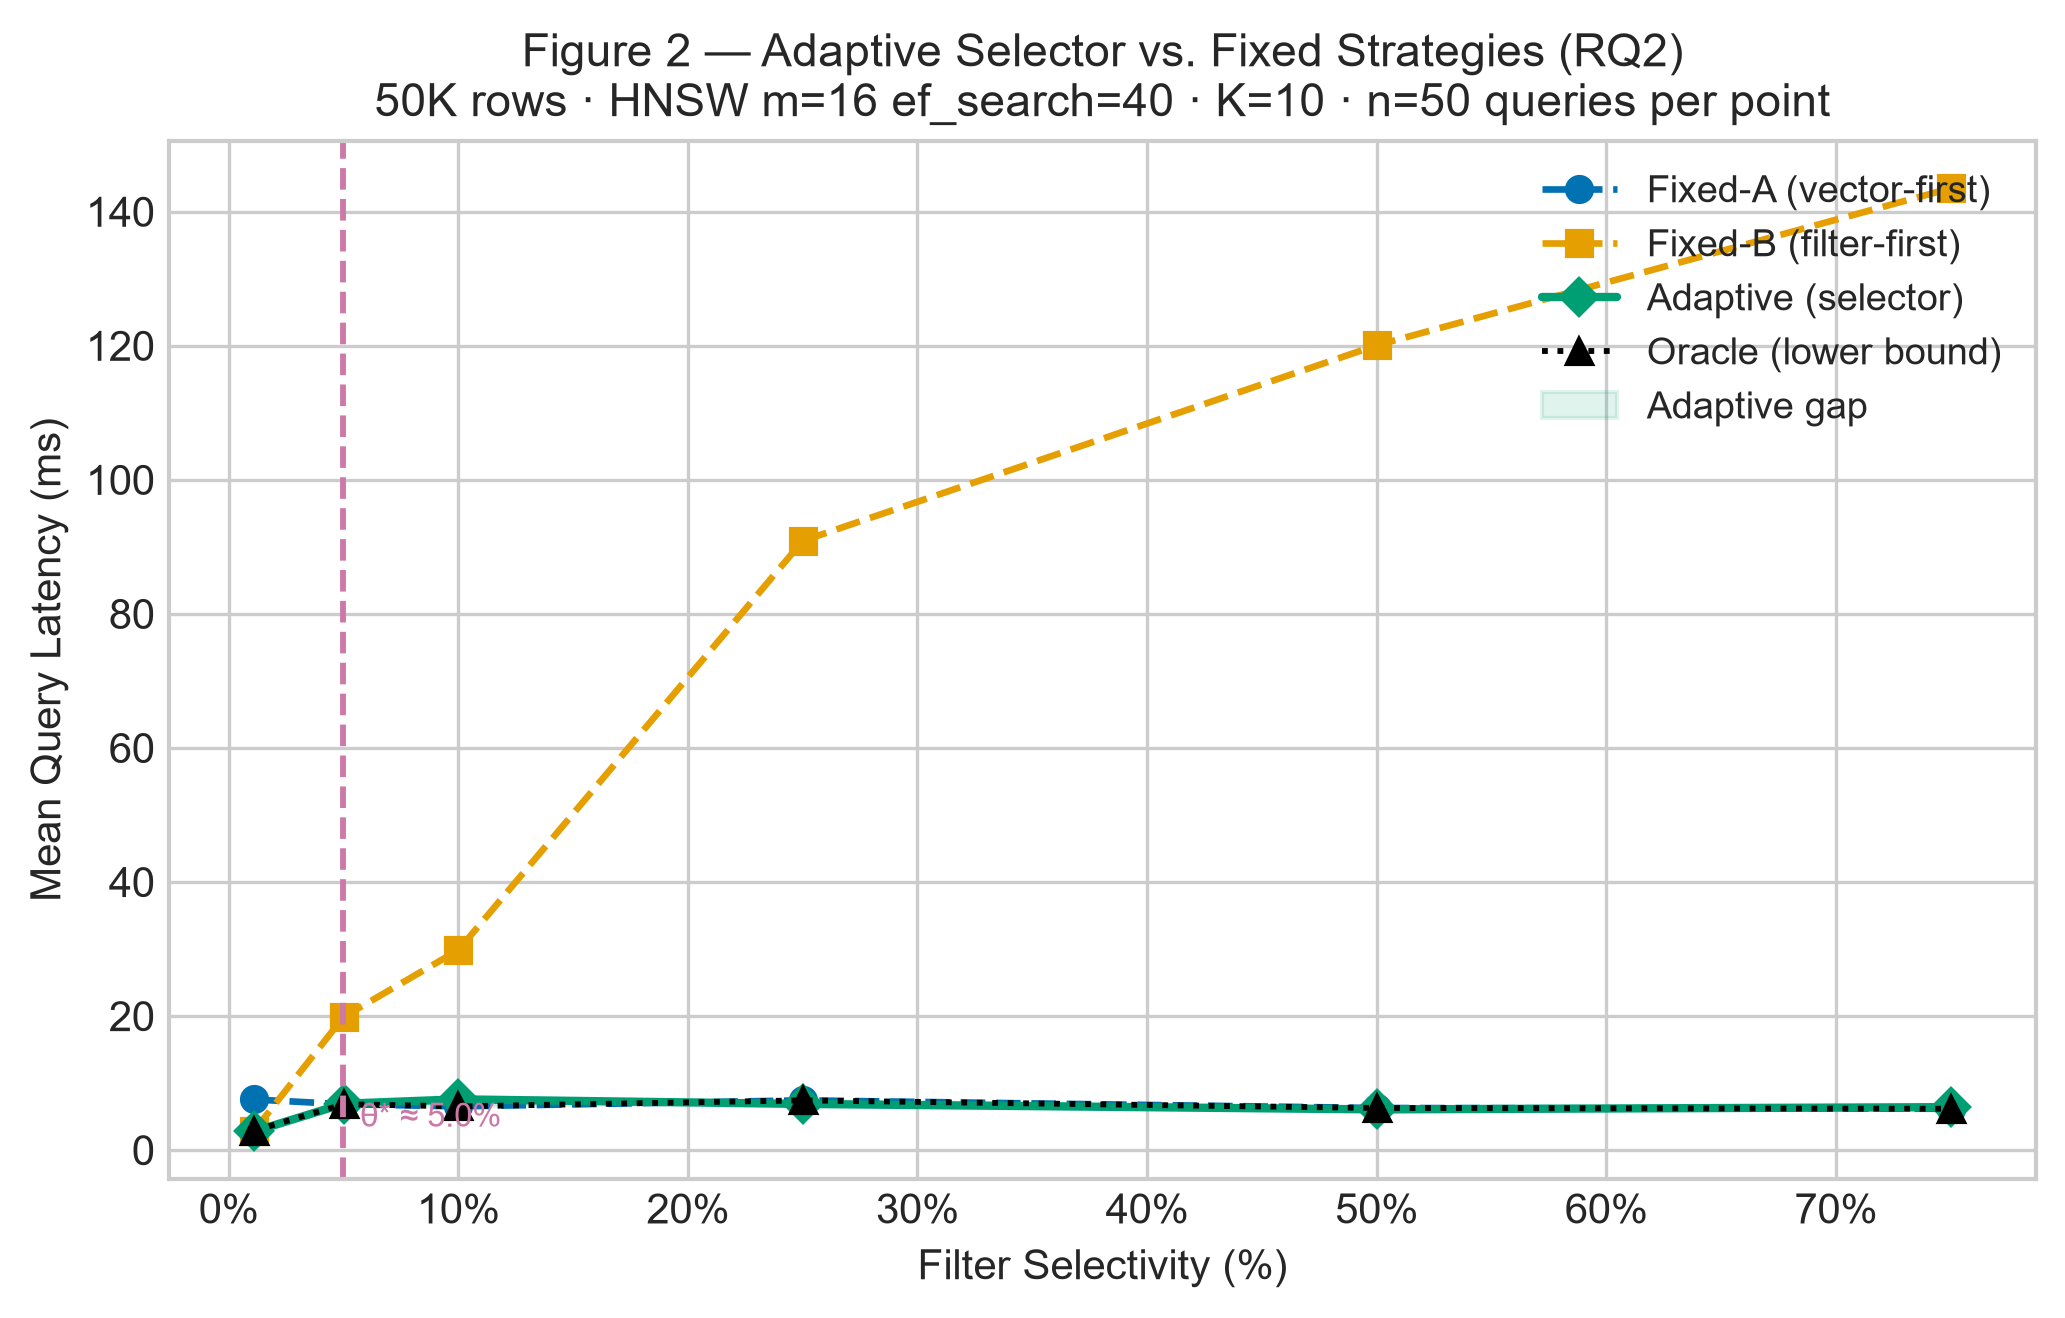
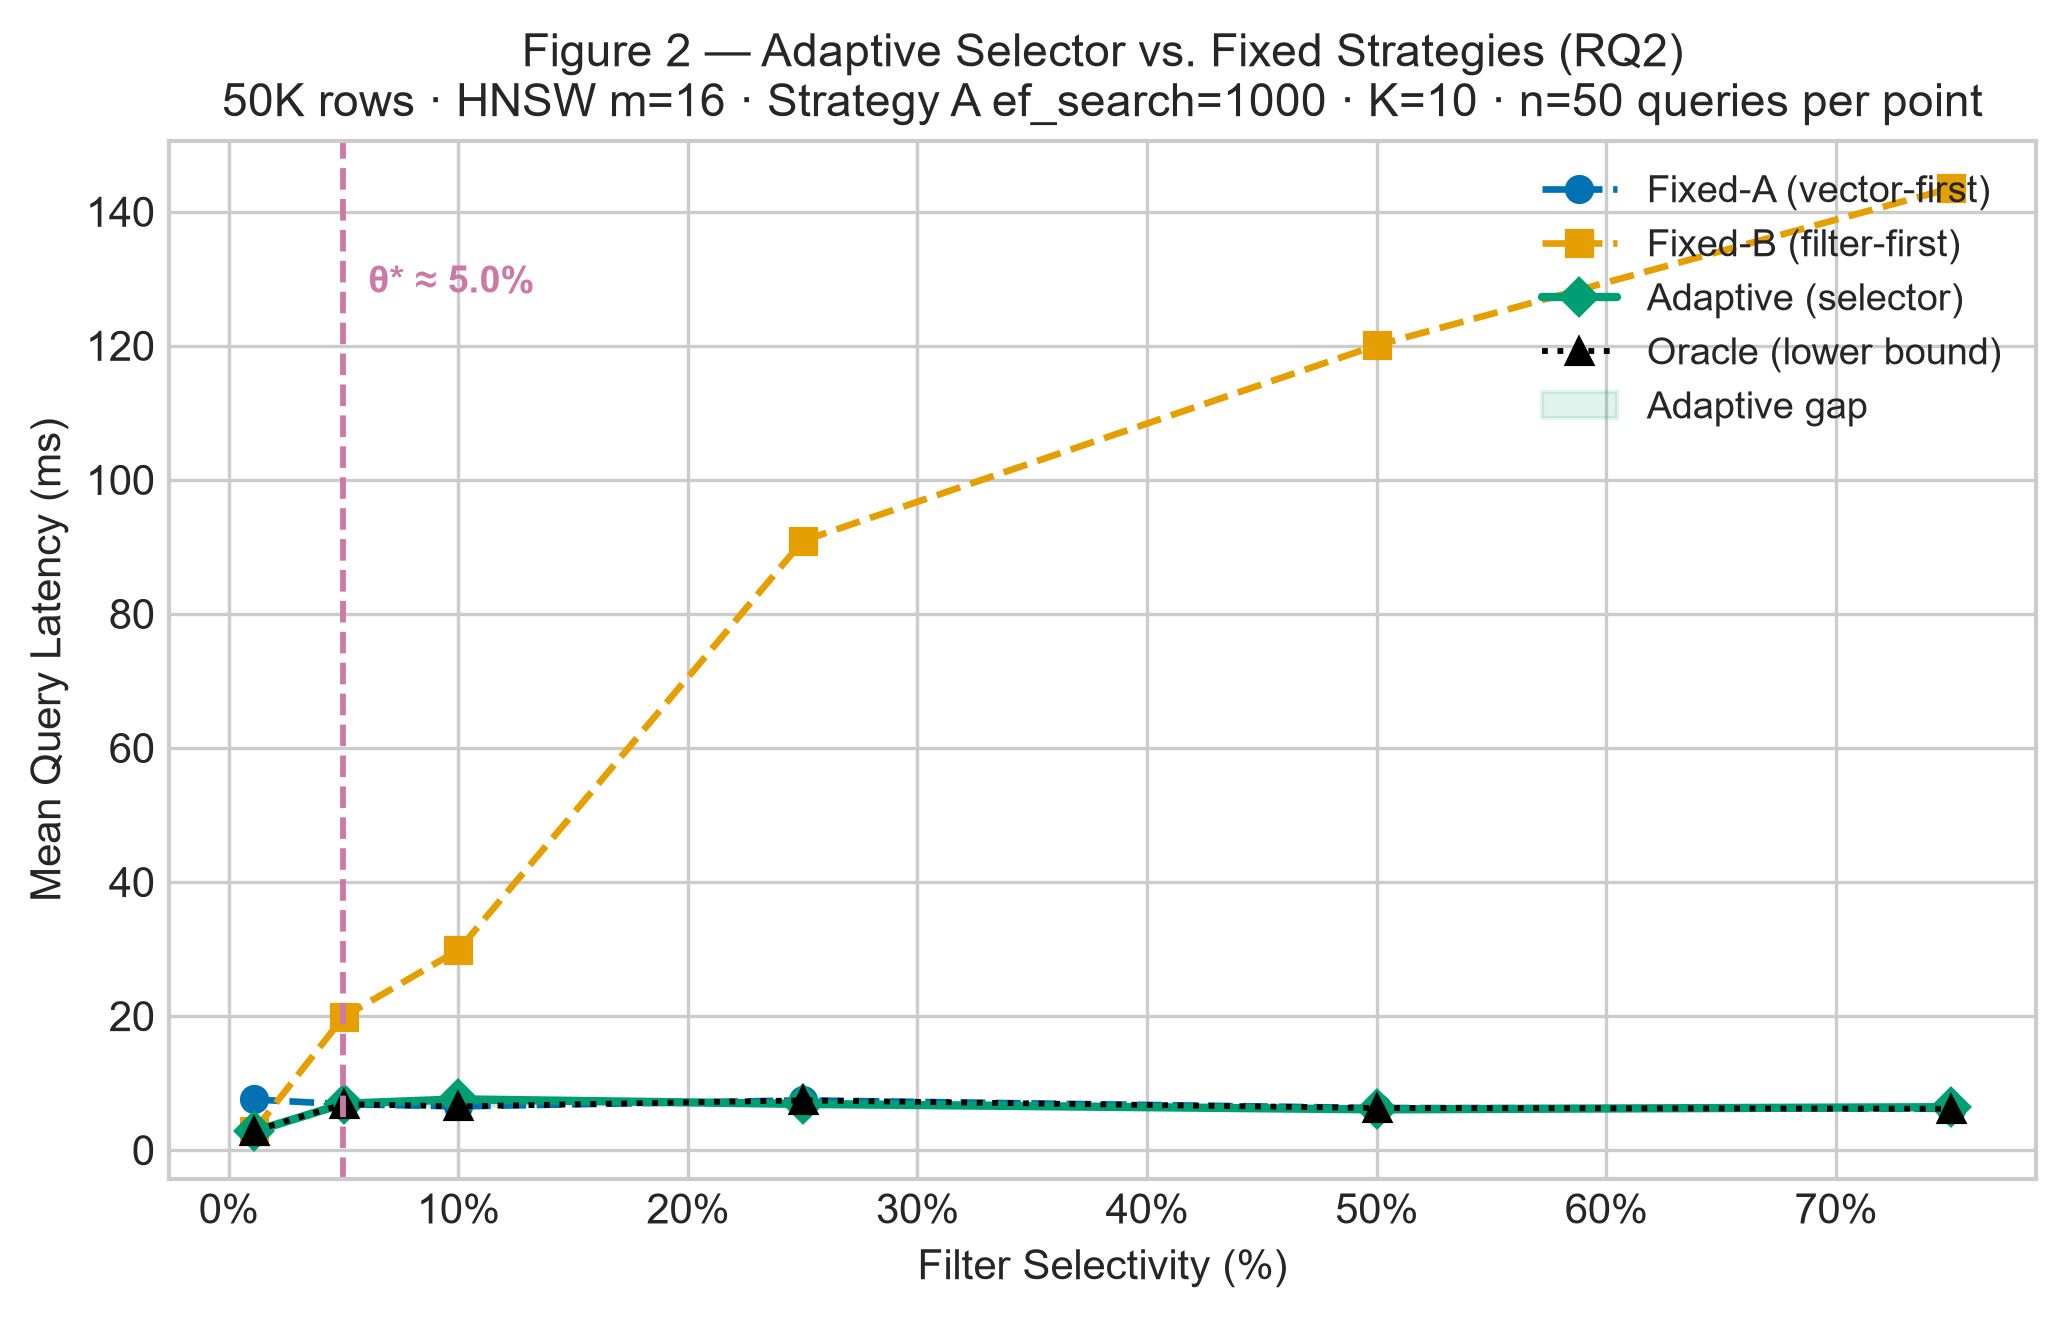
docs: align reported benchmark parameters with actual behavior
- Report Strategy A effective ef_search=1000 (max(40, n_candidates));
  the previous "ef_search=40" claim in README, figure titles, and the
  exp_01 docstring described the config floor, not the operating point
- Fix README manual setup: pgvector 0.8.4 is not a trusted extension,
  so CREATE EXTENSION requires superuser; make hybench the DB owner
  (required on PG15+ where public schema is not world-writable)
- Add Docker as the recommended, documented setup path (digest-pinned)
- Correct project structure: create_tables.sql builds B-tree only,
  HNSW lives in sql/indexes.sql; add tests/ and compose file entries
- Remove nonexistent BenchmarkConfig.n_candidates from config reference
- Fix stale 0.75-selectivity calibration comment in config.py
- Regenerate reference figures with corrected titles (same data)

Changed region(s): [[0.093, 0.0622, 0.9608, 0.0933], [0.186, 0.8399, 0.2479, 0.871], [0.186, 0.1866, 0.2479, 0.2178]]

diff --git a/analysis/plot_results.py b/analysis/plot_results.py
@@ -107,7 +107,7 @@ def fig_01_latency_vs_selectivity(theta_star: float = None):
         ax1.set_ylabel("Mean Query Latency (ms)\n(error bars: ±1 SD, n=50 queries)")
         ax1.set_title(
             "Figure 1 — Filter Selectivity vs. Query Latency (RQ1)\n"
-            "50K rows · HNSW m=16 ef_search=40 · K=10 · "
+            "50K rows · HNSW m=16 · Strategy A ef_search=1000 · K=10 · "
             "Recall@K relative to filtered set"
         )
         ax1.xaxis.set_major_formatter(mticker.FuncFormatter(lambda x, _: f"{x:.0f}%"))
@@ -195,7 +195,7 @@ def fig_02_adaptive_vs_fixed():
         ax.set_ylabel("Mean Query Latency (ms)")
         ax.set_title(
             "Figure 2 — Adaptive Selector vs. Fixed Strategies (RQ2)\n"
-            "50K rows · HNSW m=16 ef_search=40 · K=10 · n=50 queries per point"
+            "50K rows · HNSW m=16 · Strategy A ef_search=1000 · K=10 · n=50 queries per point"
         )
         ax.xaxis.set_major_formatter(mticker.FuncFormatter(lambda x, _: f"{x:.0f}%"))
         ax.legend(loc="upper right")

diff --git a/benchmark/config.py b/benchmark/config.py
@@ -81,7 +81,7 @@ ADAPTIVE_THRESHOLD: float = 0.05   # derived from exp_01 crossover: B wins below
 # ---------------------------------------------------------------------------
 
 # Six selectivity targets covering the full range.
-# 0.75 replaces 0.90: easier to hit cleanly with the Mouse profile.
+# 0.75 replaces 0.90: hit cleanly with a cross-category price-cap query (no category filter).
 SELECTIVITY_LEVELS: List[float] = [0.01, 0.05, 0.10, 0.25, 0.50, 0.75]
 
 # (category_or_None, max_price, min_rating) calibrated against the 50K synthetic dataset (seed=42).

diff --git a/experiments/exp_01_selectivity.py b/experiments/exp_01_selectivity.py
@@ -1,7 +1,7 @@
 """
 Experiment 1 — Filter Selectivity vs. Latency  (RQ1)
 
-Fixed variables : dataset = 50K, index = HNSW (ef_search=40), top_k = 10
+Fixed variables : dataset = 50K, index = HNSW (Strategy A effective ef_search=1000), top_k = 10
 Varied variable : filter selectivity in {1%, 5%, 10%, 25%, 50%, 75%}
 
 Protocol

diff --git a/README.md b/README.md
@@ -94,7 +94,7 @@ Properties:
 
 ### Experiment 1 — Selectivity vs. Latency (RQ1)
 
-Dataset: 50K rows · HNSW m=16 ef_search=40 · K=10 · n=50 queries per level · warm cache
+Dataset: 50K rows · HNSW m=16 · K=10 · Strategy A: n_candidates=1000 (effective ef_search=1000) · n=50 queries per level · warm cache
 
 | Selectivity | Actual σ | Strategy A | Strategy B | Winner | Speedup |
 |-------------|----------|-----------|-----------|--------|---------|
@@ -128,7 +128,7 @@ Adaptive made the correct strategy decision at all 6 selectivity levels. Oracle 
 
 ### Prerequisites
 
-- PostgreSQL 16 with pgvector 0.7+
+- Docker (recommended — the compose file pins PostgreSQL 16 + pgvector 0.8.4 by immutable digest), or an existing PostgreSQL 16 install with pgvector ≥ 0.7
 - Python 3.10+
 - `all-MiniLM-L6-v2` model (downloaded automatically on first run by `sentence-transformers`)
 
@@ -147,11 +147,28 @@ pip install -r requirements.txt
 
 ### 2. Create the database
 
+**Option A — Docker (recommended, reproducible):**
+
 ```bash
-createdb hybench
-psql -d hybench -c "CREATE USER hybench WITH PASSWORD 'hybench'; GRANT ALL ON DATABASE hybench TO hybench;"
+docker compose up -d
+```
+
+Starts PostgreSQL 16 + pgvector 0.8.4 from a digest-pinned image and runs
+`sql/create_tables.sql` automatically on first start (schema + B-tree indexes).
+
+**Option B — existing PostgreSQL 16 install:**
+
+```bash
+psql -c "CREATE USER hybench WITH PASSWORD 'hybench';"
+createdb -O hybench hybench
+psql -d hybench -c "CREATE EXTENSION IF NOT EXISTS vector;"
 psql -d hybench -U hybench -f sql/create_tables.sql
 ```
+
+> **Note:** pgvector is not a *trusted* extension, so `CREATE EXTENSION` (third
+> line) must run as a superuser. Making `hybench` the database owner
+> (`createdb -O hybench`) is required on PostgreSQL 15+, where the `public`
+> schema is no longer writable by ordinary roles.
 
 ### 3. Generate the dataset and build the HNSW index
 
@@ -230,7 +247,8 @@ HyBench/
 │   └── generator.py            50K synthetic row generation (seed=42)
 │
 ├── sql/
-│   └── create_tables.sql       Schema, pgvector extension, B-tree and HNSW indexes
+│   ├── create_tables.sql       Schema, pgvector extension, B-tree indexes
+│   └── indexes.sql             HNSW index (built by generator.py after data load)
 │
 ├── experiments/
 │   ├── exp_01_selectivity.py   RQ1: latency across 6 selectivity levels
@@ -239,14 +257,14 @@ HyBench/
 ├── analysis/
 │   └── plot_results.py         Two 300 DPI publication-quality figures
 │
-├── data/synthetic/
+├── data/synthetic/             Generated by generator.py (gitignored)
 │   ├── products.csv            50K rows (seed=42)
 │   └── embeddings.npy          50K x 384 float32
 │
-├── results/                    JSON outputs (exp_01_selectivity.json, exp_02_adaptive.json)
-├── figures/                    Generated PNG figures
-└── report/
-    └── RESEARCH_PLAN.md        Full methodology and research plan
+├── tests/                      14 unit tests (pytest, DB-free via mocks)
+├── results/                    JSON outputs (reference copies committed)
+├── figures/                    Generated PNG figures (reference copies committed)
+└── docker-compose.yml          PostgreSQL 16 + pgvector 0.8.4, digest-pinned
 ```
 
 ---
@@ -261,7 +279,9 @@ ADAPTIVE_THRESHOLD: float = 0.05   # theta* — calibrated from exp_01 crossover
 class HNSWConfig:
     m: int = 16
     ef_construction: int = 64
-    ef_search: int = 40            # overridden per-query as max(40, n_candidates)
+    ef_search: int = 40            # floor value; Strategy A raises it per-query to
+                                   # max(ef_search, n_candidates) = 1000, because
+                                   # pgvector returns at most ef_search rows
 
 class DataConfig:
     n_rows: int = 50_000
@@ -269,11 +289,16 @@ class DataConfig:
     random_seed: int = 42
 
 class BenchmarkConfig:
+    top_k: int = 10
     n_queries: int = 50
     n_warmup: int = 5
-    top_k: int = 10
-    n_candidates: int = 1_000      # Strategy A HNSW scan budget
+    strategy: str = "both"         # "A", "B", or "both"
+    index_type: str = "hnsw"
 ```
+
+> `n_candidates` is not a config field: it is derived in `runner.py` as
+> `top_k × candidate_multiplier` (10 × 100 = **1000**), and Strategy A's
+> effective `hnsw.ef_search` is raised to match it.
 
 ---
 